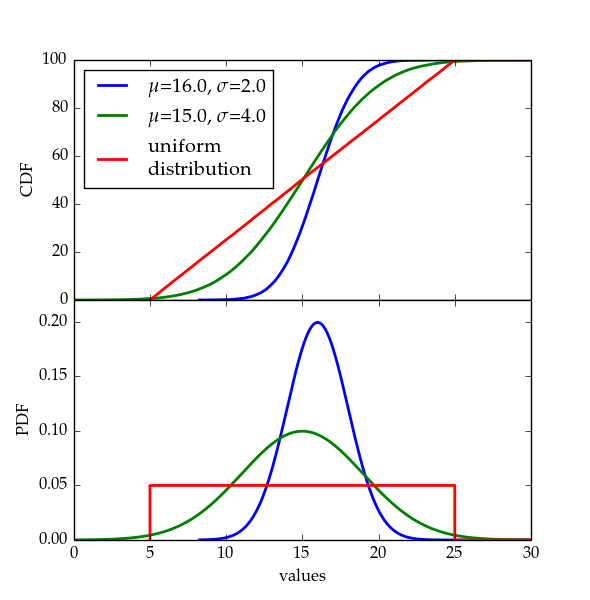
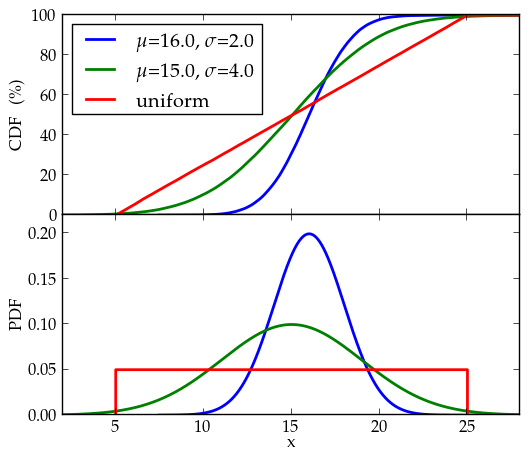
lopulliset(?) kuvat

Changed region(s): [[0.0, 0.0, 0.9962, 0.9803]]

diff --git a/plotscripts/edf.py b/plotscripts/edf.py
@@ -7,67 +7,62 @@ import math
 import pylab
 import random
 
-random.seed(715517)
+def CDFifyXData(array):
+	array = np.repeat(array, 2)
+	array = np.delete(array, len(array)-1)
+	return array
 
-N = 150
-normalNumbers = np.random.normal(10.0, 2.0, N)
-normalNumbersLow = np.random.normal(5.0, 2.0, N)
-normalNumbersWide = np.random.normal(10.0, 4.0, N)
-normalNumbersWide2 = np.random.normal(10.0, 4.0, N)
 
-biggest = max(max(max(np.amax(normalNumbers), np.amax(normalNumbersLow)),
-        np.amax(normalNumbersWide)), np.amax(normalNumbersWide2))
+np.random.seed(71551)
+
+N = 35
+normalNumbers = np.random.normal(16.0, 2.0, N)
+normalNumbersWide = np.random.normal(15.0, 4.0, N)
+normalNumbersWide2 = np.random.normal(15.0, 4.0, N)
+uniform = np.random.uniform(5.0, 25.0, N)
+
+biggest = max(max(max(np.amax(normalNumbers), np.amax(normalNumbersWide)),
+			  np.amax(uniform)), np.amax(normalNumbersWide2))
 
 percentage = np.arange(0, 100, 100.0/N)
 percentage = np.append(percentage, 100)
-
-f, (ax1, ax2) = plt.subplots(2, 1, sharex=True)
-f.subplots_adjust(hspace=0)
-
-bins = np.arange(-2, biggest+1, 1.5)
-ax2.hist(normalNumbers, bins, histtype='step', stacked=True, fill=False,
-        linewidth=2.0)
-ax2.hist(normalNumbersLow, bins, histtype='step', stacked=True, fill=False,
-        linewidth=2.0)
-ax2.hist(normalNumbersWide, bins, histtype='step', stacked=True, fill=False,
-        linewidth=2.0)
-ax2.hist(normalNumbersWide2, bins, histtype='step', stacked=True, fill=False,
-        linewidth=2.0)
-
-# hide topmost ticklabel on lower plot
-lastTickLabel = ax2.get_yticklabels()
-lastTickLabel = lastTickLabel[len(lastTickLabel)-1]
-plt.setp(lastTickLabel, visible=False)
+percentage = np.repeat(percentage, 2)
+percentage = np.delete(percentage, 0)
 
 normalNumbers.sort()
-normalNumbersLow.sort()
 normalNumbersWide.sort()
 normalNumbersWide2.sort()
+uniform.sort()
 
 normalNumbers = np.append(normalNumbers, biggest)
-normalNumbersLow = np.append(normalNumbersLow, biggest)
 normalNumbersWide = np.append(normalNumbersWide, biggest)
 normalNumbersWide2 = np.append(normalNumbersWide2, biggest)
+uniform = np.append(uniform, biggest)
 
-ax1.plot(normalNumbers, percentage, label='$\mu$=10.0, $\sigma$=2.0',
+normalNumbers = CDFifyXData(normalNumbers)
+normalNumbersWide = CDFifyXData(normalNumbersWide)
+uniform = CDFifyXData(uniform)
+normalNumbersWide2 = CDFifyXData(normalNumbersWide2)
+
+plt.plot(normalNumbers, percentage, label='$\mu$=16.0, $\sigma$=2.0',
 		 linewidth=2.0)
-ax1.plot(normalNumbersLow, percentage, label='$\mu$=5.0, $\sigma$=2.0',
+plt.plot(normalNumbersWide, percentage, label='$\mu$=15.0, $\sigma$=4.0',
 		 linewidth=2.0)
-ax1.plot(normalNumbersWide, percentage, label='$\mu$=10.0, $\sigma$=4.0',
-		 linewidth=2.0)
-ax1.plot(normalNumbersWide2, percentage, label='$\mu$=10.0, $\sigma$=4.0',
+plt.plot(normalNumbersWide2, percentage, label='$\mu$=15.0, $\sigma$=4.0',
+		 linewidth=2.0, color='c')
+plt.plot(uniform, percentage, label='uniform',
 		 linewidth=2.0)
 
-plt.xlabel('values')
-#ax1.ylabel('CDF')
-ax1.legend(loc=0)
-plt.xlim([-2, math.ceil(biggest)])
+plt.xlabel('x')
+plt.ylabel('EDF \enspace (\%)')
+plt.legend(loc=0)
+plt.xlim([2, 28])
 
 rc('font', **{'family':'serif','serif':['Palatino']})
 rc('text', usetex=True)
 
 F = pylab.gcf()
-F.set_size_inches(5.90666, 8)
+F.set_size_inches(5.9, 3.2)
 
 #plt.show()
-plt.savefig('../kuvat/edf.png')
+plt.savefig('../kuvat/edf.png', bbox_inches='tight')

diff --git a/plotscripts/cdf.py b/plotscripts/cdf.py
@@ -15,7 +15,7 @@ def uniformPDF(x, minX, maxX):
     return [(xx>minX and xx<maxX)/(maxX*1.0-minX*1.0) for xx in x]
 
 
-random.seed(715517)
+np.random.seed(715517)
 
 N = 100000
 normalNumbers = np.random.normal(16.0, 2.0, N)
@@ -43,18 +43,18 @@ ax1.plot(normalNumbers, percentage, label='$\mu$=16.0, $\sigma$=2.0',
 		 linewidth=2.0)
 ax1.plot(normalNumbersWide, percentage, label='$\mu$=15.0, $\sigma$=4.0',
 		 linewidth=2.0)
-ax1.plot(uniform, percentage, label='uniform\ndistribution',
+ax1.plot(uniform, percentage, label='uniform',
 		 linewidth=2.0)
-ax1.set_ylabel('CDF')
+ax1.set_ylabel('CDF \enspace (\%)')
 
 pdf1 = normPDF(normalNumbers, 16, 2)
 pdf2 = normPDF(normalNumbersWide, 15, 4)
 uniform = np.insert(uniform, len(uniform)-1, 25)
 uniform = np.insert(uniform, 0, 5)
 pdf3 = uniformPDF(uniform, 5, 25)
-ax2.plot(normalNumbers, pdf1, linewidth=2.0)
-ax2.plot(normalNumbersWide, pdf2, linewidth=2.0)
-ax2.plot(uniform, pdf3, linewidth=2.0)
+ax2.plot(normalNumbers, pdf1, linewidth=2.0, label='$\mu$=16.0, $\sigma$=2.0')
+ax2.plot(normalNumbersWide, pdf2, linewidth=2.0, label='$\mu$=15.0, $\sigma$=4.0')
+ax2.plot(uniform, pdf3, linewidth=2.0, label='uniform')
 ax2.set_ylabel('PDF')
 ax2.set_ylim([0, .22])
 
@@ -63,16 +63,16 @@ lastTickLabel = ax2.get_yticklabels()
 lastTickLabel = lastTickLabel[len(lastTickLabel)-1]
 plt.setp(lastTickLabel, visible=False)
 
-plt.xlabel('values')
+plt.xlabel('x')
 #ax1.ylabel('CDF')
 ax1.legend(loc=0)
-plt.xlim([0, 30])
+plt.xlim([2, 28])
 
 rc('font', **{'family':'serif','serif':['Palatino']})
 rc('text', usetex=True)
 
 F = pylab.gcf()
-F.set_size_inches(5.9, 6)
+F.set_size_inches(5.9, 5)
 
 #plt.show()
-plt.savefig('../kuvat/cdf.png')
+plt.savefig('../kuvat/cdf.png', bbox_inches='tight')
